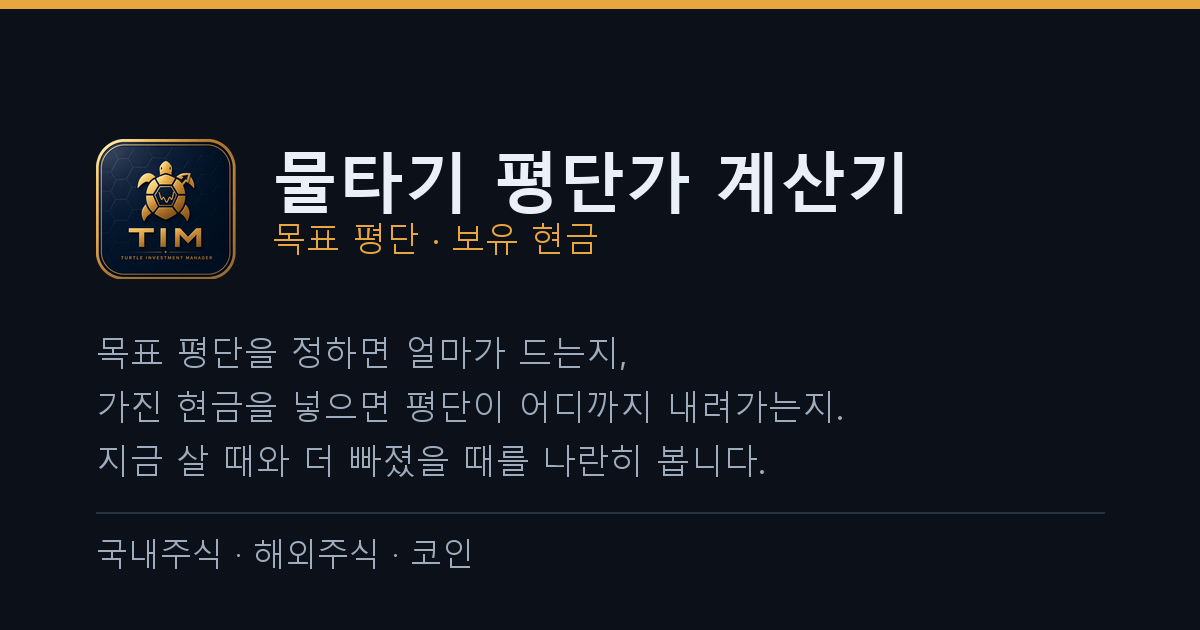
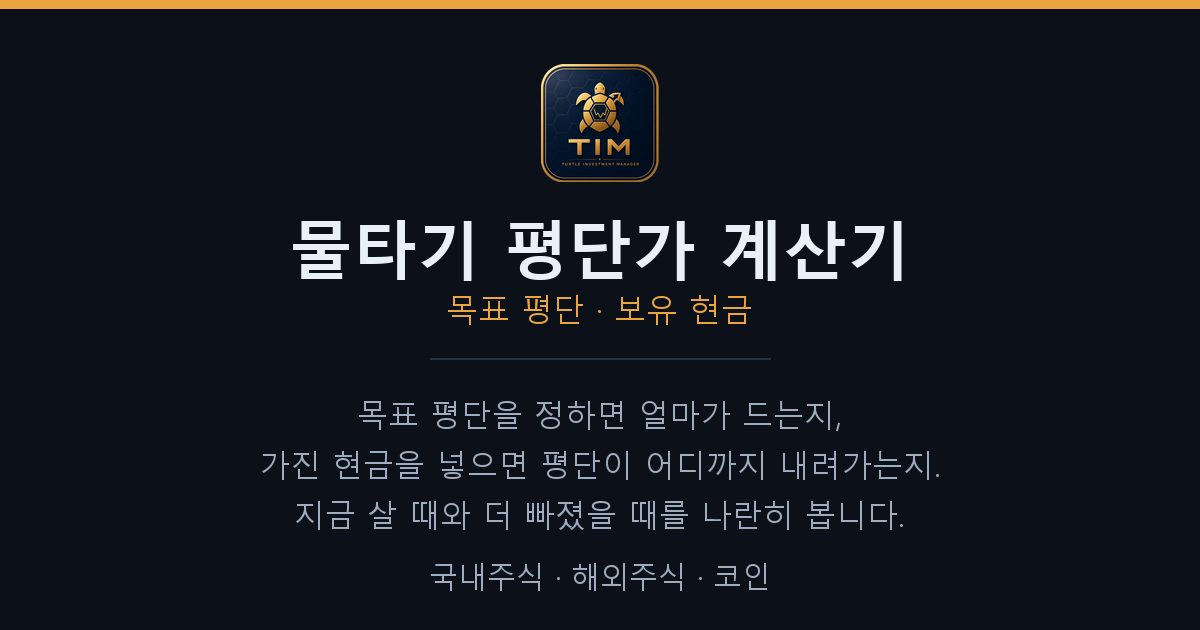
카드 그림을 가운데 정렬로
왼쪽으로만 붙여 놓으니 오른쪽이 비어 답답해 보였다.
로고·제목·설명을 한 세로선 중심으로 세웠다.

diff --git a/avg-price/index.html b/avg-price/index.html
@@ -135,7 +135,7 @@ tbody tr:first-child td.base{color:var(--faint);font-size:11px}
 <meta property="og:title" content="물타기 평단가 계산기 — 목표 평단 · 보유 현금">
 <meta property="og:description" content="목표 평단을 정하면 얼마가 드는지, 가진 현금을 넣으면 평단이 어디까지 내려가는지 한 화면에 나옵니다. 지금 살 때와 더 빠졌을 때를 나란히 비교합니다. 국내주식·해외주식·코인 모두.">
 <meta property="og:url" content="https://turtletimkr.github.io/avg-price/">
-<meta property="og:image" content="https://turtletimkr.github.io/card.png?v=2">
+<meta property="og:image" content="https://turtletimkr.github.io/card.png?v=3">
 <meta property="og:image:width" content="1200">
 <meta property="og:image:height" content="630">
 <meta name="twitter:card" content="summary_large_image">

diff --git a/index.html b/index.html
@@ -10,7 +10,7 @@
 <meta property="og:site_name" content="거북이 TIM">
 <meta property="og:title" content="거북이 TIM — 투자 계산기">
 <meta property="og:url" content="https://turtletimkr.github.io/">
-<meta property="og:image" content="https://turtletimkr.github.io/card.png?v=2">
+<meta property="og:image" content="https://turtletimkr.github.io/card.png?v=3">
 <meta name="twitter:card" content="summary_large_image">
 <style>
 :root{--bg:#0C1119;--card:#151D28;--ink:#EAF0F7;--mute:#9EACBE;--faint:#6E7D91;
